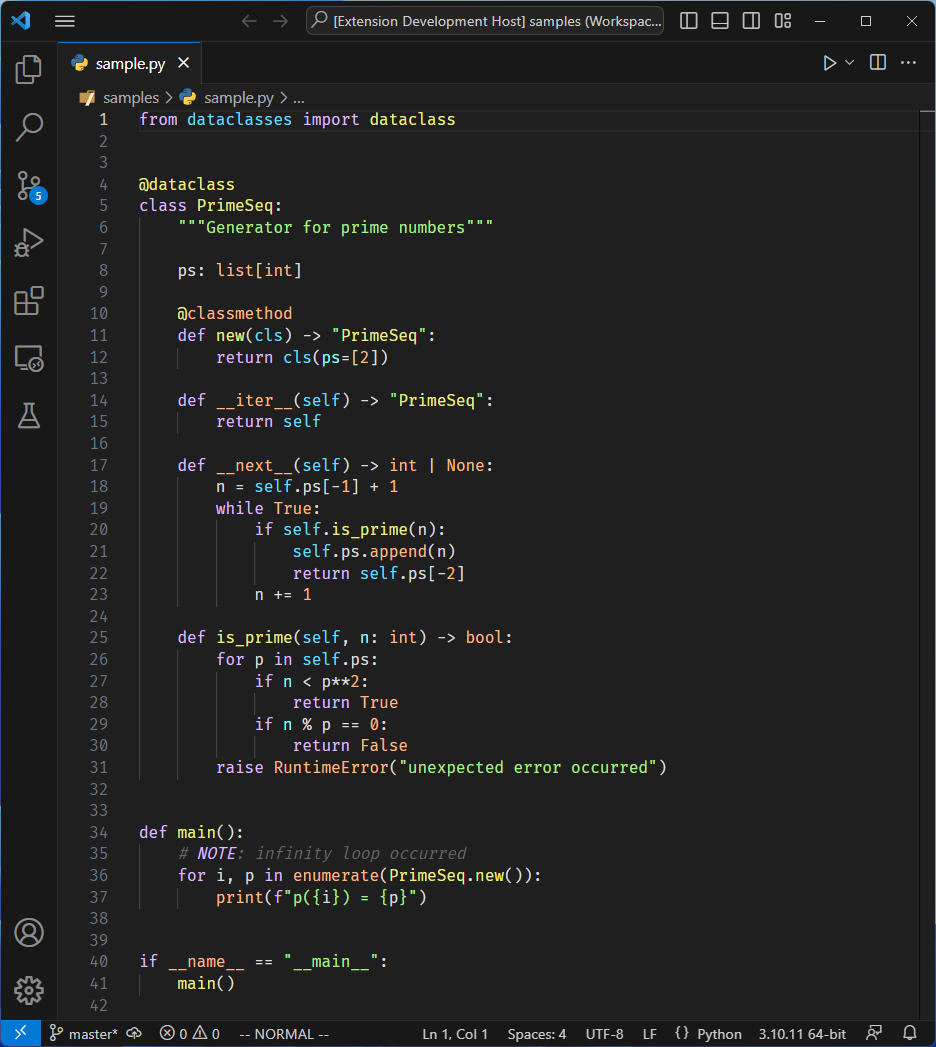
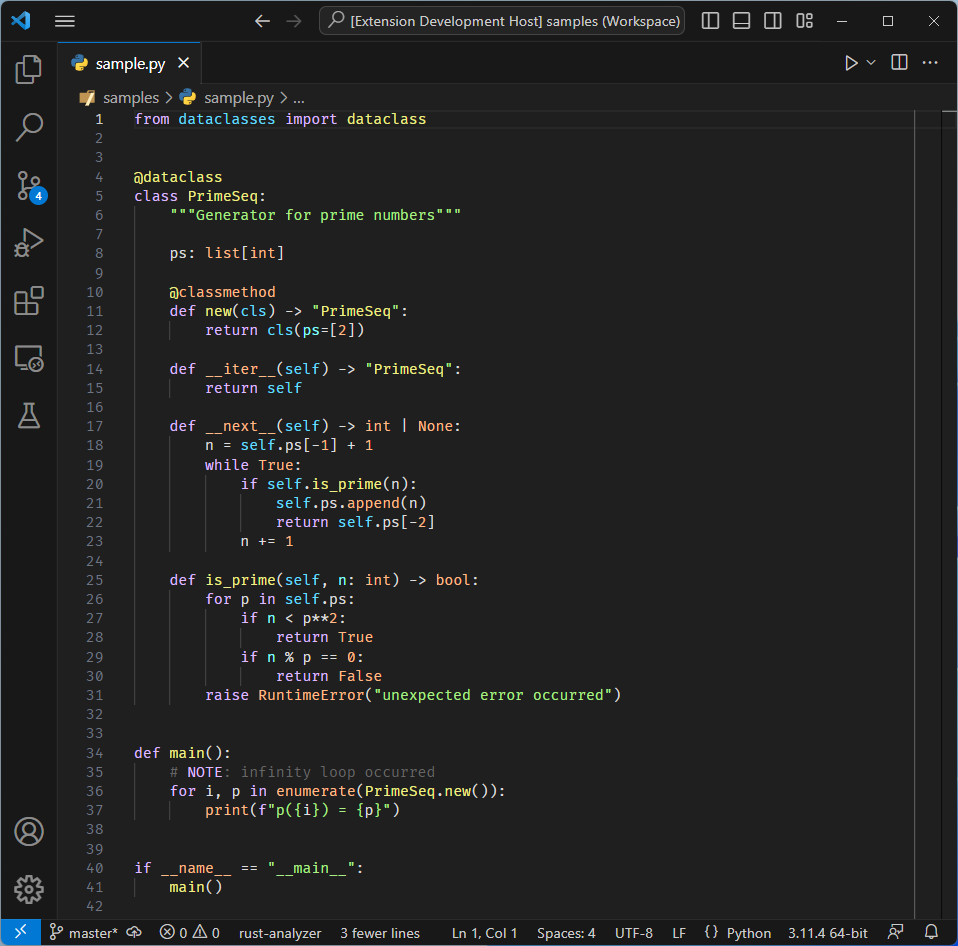
feat: change comment style to normal

diff --git a/CHANGELOG.md b/CHANGELOG.md
@@ -1,5 +1,8 @@
 ## vscode-gari-theme
 
+### 0.5.0
+- Change comment style to normal
+
 ### 0.4.0
 - Adapted to the plugin "Even Better Toml"
 - Adapted to the plugin "Rainbow CSV"
